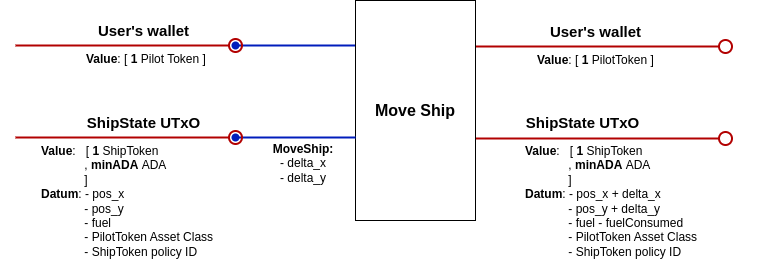
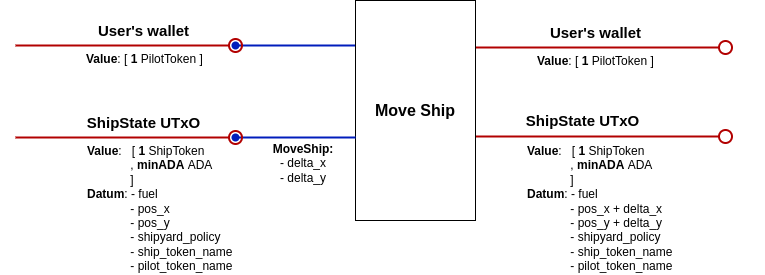
updated design according to new nomenclature.

Changed region(s): [[0.0, 0.0, 0.9659, 1.0], [0.664, 0.6769, 0.9357, 1.0]]

diff --git a/mvp-design/design.md b/mvp-design/design.md
@@ -3,9 +3,9 @@
 ## Introduction
 This document describes the technical design of the Asteria dApp - the script UTxOs involved, the operations that take place both during the game and in the setup phase, and the necessary validators and minting policies.
 
-There will be a single script UTxO for the `Pot`, several `PelletState` UTxOs and a `ShipState` UTxO for every user. The `Pot` UTxO locks the ada amount paid by each user when creating a ship, and it's position on the board is always assumed to be (0,0). Both `PelletState` and `ShipState` UTxOs have their positions specified in the datum. In order to identify valid game UTxOs, the admin will deposit a special token (the "admin token") in the `PelletState` and `Pot` UTxOs when creating them. This token is also used for parameterizing the pot and fuel validators, so we could have different "versions" of the game, each one with a different admin token.
+There will be a single `AsteriaUtxo`, several `PelletState` UTxOs and a `ShipState` UTxO for every user. The `AsteriaUtxo` locks the ada amount paid by each user when creating a ship, and it's position on the board is always assumed to be (0,0). Both `PelletState` and `ShipState` UTxOs have their positions specified in the datum. In order to identify valid game UTxOs, the admin will deposit a special token (the `AdminToken`) in the `PelletState` UTxOs and the `AsteriaUtxo` when creating them. This token is also used for parameterizing the Asteria and pellet validators, so we could have different "versions" of the game, each one with a different `AdminToken`.
 
-Each ship will be identified by a `ShipToken`, with a fixed policy id but a token name of their own. This is the token that is minted by the _Ship minting policy_, described in the validators section.
+Each ship will be identified by a `ShipToken`, with a fixed policy id but a token name of their own. This is the token that is minted by the `ShipyardPolicy`, described in the validators section.
 
 
 ## UTxOs specification
@@ -13,66 +13,67 @@ Each ship will be identified by a `ShipToken`, with a fixed policy id but a toke
 ### ShipState UTxO:
 
 >#### Address
->* Parameterized on admin token, `Pot` validator address and `PelletState` validator address.
+>* Parameterized on `AdminToken`, Asteria validator address and pellet validator address.
 >
 >#### Datum
+>* fuel: **Int**
 >* pos_x: **Int**
 >* pos_y: **Int**
->* fuel: **Int**
->* pilot_token: **(PolicyId, AssetName)**
->* ship_token_policy: **PolicyId**
+>* shipyard_policy: **PolicyId**
+>* ship_token_name: **AssetName**
+>* pilot_token_name: **AssetName**
 >
 >#### Value
->* minAda
+>* minADA
 >* `ShipToken`
 
 ### PelletState UTxO:
 
 >#### Address
->* Parameterized on the admin token.
+>* Parameterized on the `AdminToken`.
 >
 >#### Datum
+>* fuel: **Int**
 >* pos_x: **Int**
 >* pos_y: **Int**
->* fuel: **Int**
->* ship_token_policy: **PolicyId**
+>* shipyard_policy: **PolicyId**
 >
 >#### Value
->* minAda
->* admin token
+>* minADA
+>* `AdminToken`
 
-### Pot UTxO:
+### Asteria Utxo:
 
 >#### Address
->* Parameterized on the admin token.
+>* Parameterized on the `AdminToken`.
 >
 >#### Datum
->* ship_token_policy: **PolicyId**
+>* ship_counter: **Int**
+>* shipyard_policy: **PolicyId**
 >
 >#### Value
->* minAda
->* reward amount.
->* admin token
+>* total_rewards
+>* `AdminToken`
 >
->Note: the reward amount is updated during the course of the game, whenever a new user joins or reaches the pot.
+>Note: the reward amount is updated during the course of the game, whenever a new user joins or reaches Asteria.
 
 
 ## Transactions
 
-### Create Pot UTxO:
-This transaction creates the unique `Pot` UTxO locking min ada and an admin token. It stores in the datum the ship token policy id for being able to reference it in the validator.
+### Create AsteriaUtxo:
+This transaction creates the unique `AsteriaUtxo` locking min ada and an `AdminToken`. It stores in the datum the `ShipToken` policy id for being able to reference it in the validator.
 
-![createPot diagram](img/createPot.png)
+![createAsteria diagram](img/createAsteria.png)
 
 
 ### Create a PelletState UTxO:
-Creates one `PelletState` UTxO locking min ada and an admin token, setting in the datum the `pos_x` and `pos_y` coordinates where the pellet will be located on the grid and the `fuel` value equal to some initial value.
+Creates one `PelletState` UTxO locking min ada and an `AdminToken`, setting in the datum the `pos_x` and `pos_y` coordinates where the pellet will be located on the grid and the `fuel` value equal to some initial value.
 
 ![createPellet diagram](img/createPellet.png)
 
 
 ### Create a ShipState UTxO:
-Creates a `ShipState` UTxO locking min ada and a ship token (minted in this tx), specifying in the datum the initial `pos_x` and `pos_y` coordinates of the ship, and setting `fuel` to an initial amount. Also adds to the `Pot` UTxO value the inscription fee paid by the user.
+Creates a `ShipState` UTxO locking min ada and a `ShipToken` (minted in this tx), specifying in the datum the initial `pos_x` and `pos_y` coordinates of the ship, and setting `fuel` to an initial amount. Also adds to the `AsteriaUTxO` value the `SHIP_MINT_FEE` paid by the user.
 
 ![createShip diagram](img/createShip.png)
 
@@ -90,44 +91,44 @@ Updates the `fuel` datum field of both the `ShipState` and `PelletState` UTxOs, 
 
 
 ### Collect Rewards:
-Subtracts from the `Pot` UTxO 50% of the ada value, and pays that amount to the owner of the ship that reached the pot, together with the min ada locked in the `ShipState` UTxO. The ship token is burnt.
+Subtracts from the `AsteriaUTxO` at most `MAX_ASTERIA_MINING`% of the ada value, and pays that amount to the owner of the ship that reached Asteria, together with the min ada locked in the `ShipState` UTxO. The `ShipToken` is burnt.
 
 ![collect diagram](img/collect.png)
 
 
 ### Quit Game:
-Pays the min ada locked in the `ShipState` UTxO back to the ship owner and burns the ship token.
+Pays the min ada locked in the `ShipState` UTxO back to the ship owner and burns the `ShipToken`.
 
 ![quit diagram](img/quit.png)
 
 
 ## Validators & Minting Policies
 
-### Pot validator:
-* Params: admin token.
+### Asteria validator:
+* Params: `AdminToken`.
 
 #### *AddNewPlayer Redeemer*
-* `Pot` output value equals input value plus the inscription fee.
-* adminToken is in the input.
+* `AsteriaUTxO` output value equals input value plus the `SHIP_MINT_FEE`.
+* `AdminToken` is in the input.
 * datum doesn't change.
 
 #### *Collect Redeemer*
-* ship token is present in some input.
-* `Pot` output value has at most 50% adas less than input value.
+* `ShipToken` is present in some input.
+* `AsteriaUTxO` output value has at most `MAX_ASTERIA_MINING`% adas less than input value.
 
-### PelletState validator:
-* Params: admin token.
+### Pellet validator:
+* Params: `AdminToken`.
 
 #### *Gather Redeemer (includes gathering amount)*
-* ship token is present in some input.
+* `ShipToken` is present in some input.
 * the amount specified is not greater than the fuel available in the pellet.
 * the amount specified is subtracted from the output `PelletState` fuel datum field, and the other fields remain unchanged.
 
-### ShipState validator:
-* Params: admin token, `Pot` validator address and `PelletState` validator address.
+### SpaceTimeScript validator:
+* Params: `AdminToken`, Asteria validator address and pellet validator address.
 
 #### *MoveShip Redeemer (includes delta_x and delta_y displacements)*
-* ship token is present.
+* `ShipToken` is present.
 * there is a single `ShipState` input.
 * there is a single `ShipState` output.
 * the `PilotToken` is present in an input.
@@ -142,32 +143,37 @@ Pays the min ada locked in the `ShipState` UTxO back to the ship owner and burns
 * there is a single `ShipState` input.
 * there is a single `ShipState` output.
 * there is a `PelletState` input with the same x and y datum coordinates as the `ShipState` UTxO.
-* the amount specified plus the fuel before charging does not exceed the ship's fuel capacity.
+* the amount specified plus the fuel before charging does not exceed `MAX_SHIP_FUEL` capacity.
 * the amount specified is added to the output `ShipState` fuel datum field, and the other fields remain unchanged.
 * the `ShipState` output value is the same as the input.
 
 #### *Collect Redeemer*
 * there is a single `ShipState` input.
-* pilot token is present.
+* `PilotToken` is present.
 * `ShipState` position is (0,0).
-* `Pot` UTxO is input.
-* ship token is burnt.
+* `AsteriaUTxO` is input.
+* `ShipToken` is burnt.
 
 #### *Quit Redeemer*
 * there is a single `ShipState` input.
 * the `PilotToken` is present in an input.
 * no `ShipState` output.
 
-### Ship minting policy:
-* Params: `ShipState` validator address.
+### Ship minting policy or "ShipyardPolicy":
+* Params: `SpaceTimeScript` validator address and Asteria validator address.
 
 #### MINT:
-* a single token is minted.
+* `AsteriaUTxO` is input.
+* exactly two tokens are minted.
+* the name of one token is the `ship_counter` of the `AsteriaUTxO` datum appended to the string `SHIP`. We refer to this token as the `ShipToken`.
+* the name of one token is the `ship_counter` of the `AsteriaUTxO` datum appended to the string `PILOT`. We refer to this token as the `PilotToken`
 * there is a single `ShipState` output.
-* the `ShipState` output datum has x and y coordinates such that distance from (0,0) is above the minimum distance.
-* the `ShipState` output datum has the `ship_token_policy` set as the policy id of the minted token.
 * the `ShipState` fuel datum field equals some initial value.
-* the minted token is paid to the `ShipState` validator address.
+* the `ShipState` output datum has x and y coordinates such that distance from (0,0) is above the minimum distance.
+* the `ShipState` output datum has the `shipyard_policy` set as the policy id of the minted tokens.
+* the `ShipState` output datum has the `ship_token_name` set as the name of the `ShipToken`.
+* the `ShipState` output datum has the `pilot_token_name` set as the name of the `PilotToken`.
+* the `ShipToken` is paid to the `SpaceTimeScript` validator address.
 
 #### BURN:
 * there is a `ShipState` input.
